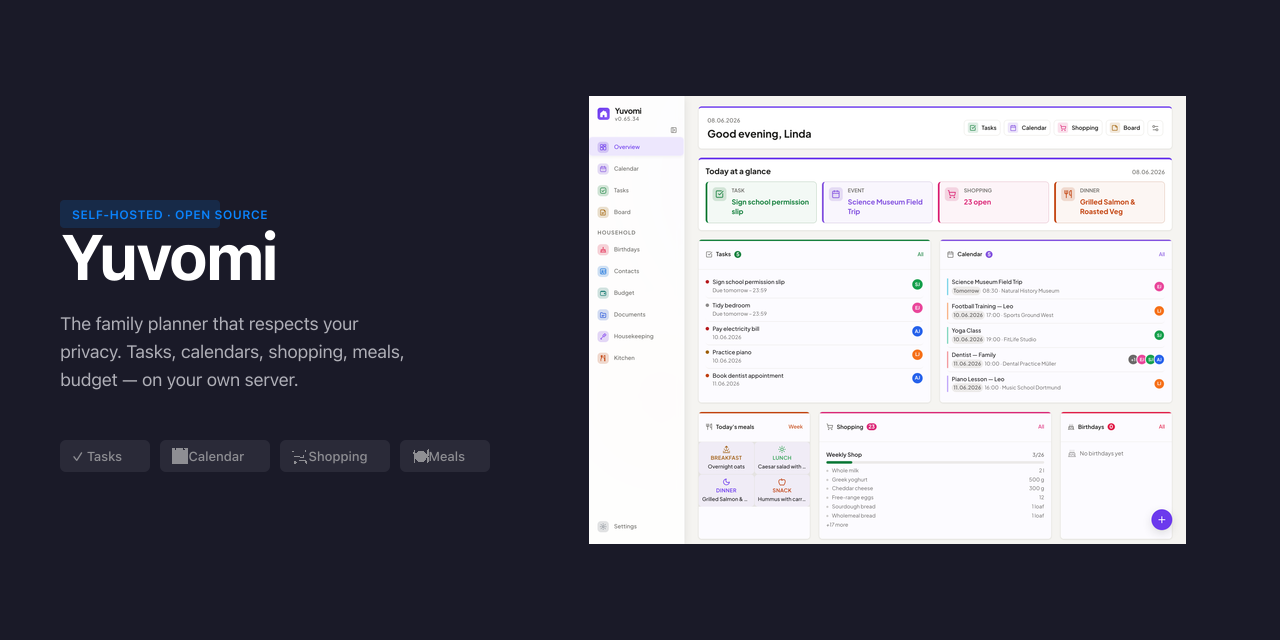
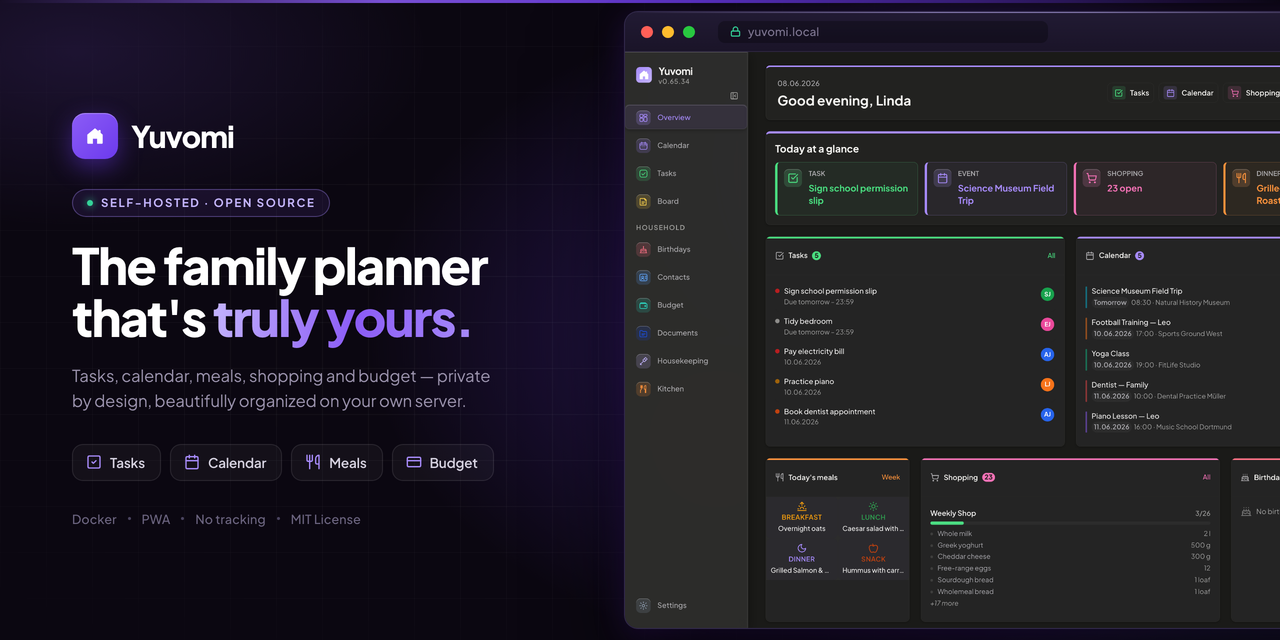
chore: release v0.67.2

diff --git a/CHANGELOG.md b/CHANGELOG.md
@@ -7,6 +7,11 @@ and this project adheres to [Semantic Versioning](https://semver.org/spec/v2.0.0
 
 ## [Unreleased]
 
+## [0.67.2] - 2026-06-09
+
+### Changed
+- Redesigned the GitHub social preview and Open Graph image (`docs/social-preview.png`, `docs/og-image.png`) with a more modern, professional editorial layout: brand logo mark and wordmark, a kicker pill, a gradient headline, feature chips with real icons, and the dashboard shown inside a macOS-style window frame with an ambient glow. The internal generator (`scripts/generate-social-preview.mjs`) was rewritten to embed the Plus Jakarta Sans brand font for crisp, on-brand typography. Image paths are unchanged, so existing Open Graph references keep working.
+
 ## [0.67.1] - 2026-06-09
 
 ### Changed